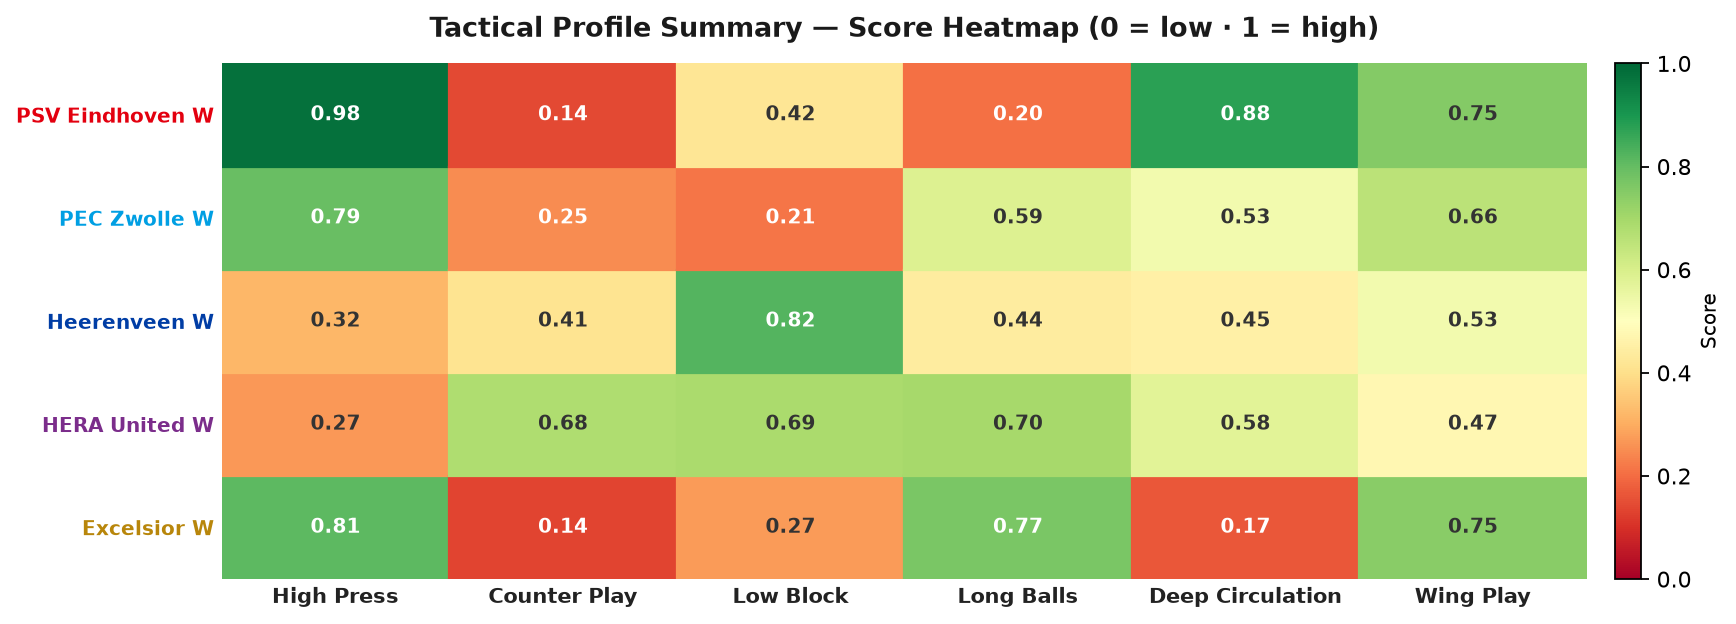
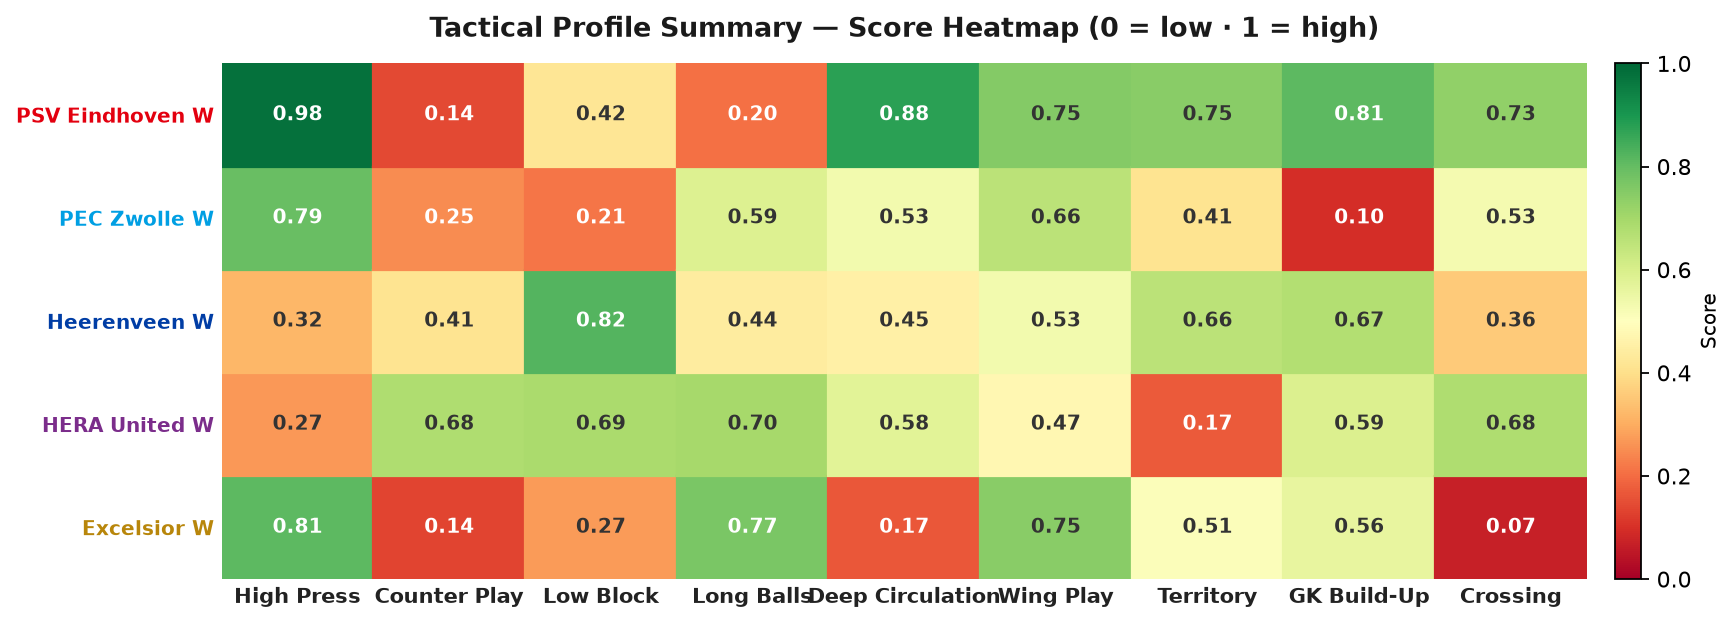
Add Territory, GK Build-Up, and Crossing metrics (9 total)
Territory = average normalised x of on-ball events (how high the team plays).
GK Build-Up = share of GK passes that are short/ground vs. punting long.
Crossing = crosses as a proportion of total passes.

Claude-Session: https://claude.ai/code/session_013bpMzJGpaUFdxat6XvigsB

diff --git a/coach_profiling.py b/coach_profiling.py
@@ -10,6 +10,9 @@ Metrics
   Long Balls        – directness from defensive areas (high/long passes from own half)
   Deep Circulation  – proportion of passes in own defensive third that stay short / go back
   Wing Play         – concentration of passing + carrying actions in wide channels
+  Territory         – average normalised x-position of on-ball events (how high the team plays)
+  GK Build-Up       – proportion of GK passes that are short/ground (vs. going long)
+  Crossing          – proportion of passes flagged as crosses
 """
 
 import json, math
@@ -48,6 +51,9 @@ LABELS = [
     "Long Balls",
     "Deep Circulation",
     "Wing Play",
+    "Territory",
+    "GK Build-Up",
+    "Crossing",
 ]
 
 METRIC_DESC = {
@@ -57,6 +63,9 @@ METRIC_DESC = {
     "Long Balls":        "High/long passes\nfrom defensive areas",
     "Deep Circulation":  "Short/back passes\nin defensive third",
     "Wing Play":         "Passes & carries\nin wide channels",
+    "Territory":         "Average pitch position\nof on-ball actions",
+    "GK Build-Up":       "GK short/ground passes\nvs. total GK passes",
+    "Crossing":          "Crosses as share\nof total passes",
 }
 
 # ── coordinate helpers ────────────────────────────────────────────────────────
@@ -170,13 +179,39 @@ def raw_metrics(events, team_name):
     wide_actions  = pass_wide   + carry_wide
     wing_pct = wide_actions / total_actions if total_actions else 0
 
+    # 7 · TERRITORY ─────────────────────────────────────────────────────────
+    # Mean normalised x of all on-ball events (passes, carries, shots, dribbles)
+    ON_BALL = {"Pass", "Carry", "Shot", "Dribble", "Ball Receipt*"}
+    x_vals = [nx(e["location"][0], e.get("attacking_direction", "left_to_right"))
+               for e in team_ev
+               if e["type"]["name"] in ON_BALL and e.get("location")]
+    territory_avg_x = sum(x_vals) / len(x_vals) if x_vals else 60.0
+
+    # 8 · GK BUILD-UP ────────────────────────────────────────────────────────
+    # Proportion of GK passes that are short/ground (low length or ground height)
+    gk_passes = [e for e in team_ev
+                 if e["type"]["name"] == "Pass"
+                 and e.get("position", {}).get("name") == "Goalkeeper"]
+    gk_short  = [p for p in gk_passes
+                 if p.get("pass", {}).get("height", {}).get("name") in ("Ground Pass", "Low Pass")
+                 and p.get("pass", {}).get("length", 99) < 35]
+    gk_buildup_ratio = len(gk_short) / len(gk_passes) if gk_passes else 0.0
+
+    # 9 · CROSSING ───────────────────────────────────────────────────────────
+    passes_all = [e for e in team_ev if e["type"]["name"] == "Pass"]
+    crosses    = [p for p in passes_all if p.get("pass", {}).get("cross")]
+    cross_pct  = len(crosses) / len(passes_all) if passes_all else 0.0
+
     return dict(
-        ppda          = ppda,
-        counter_pct   = counter_pct,
-        low_block_pct = low_block_pct,
-        long_pct      = long_pct,
-        deep_circ_pct = deep_circ_pct,
-        wing_pct      = wing_pct,
+        ppda             = ppda,
+        counter_pct      = counter_pct,
+        low_block_pct    = low_block_pct,
+        long_pct         = long_pct,
+        deep_circ_pct    = deep_circ_pct,
+        wing_pct         = wing_pct,
+        territory_avg_x  = territory_avg_x,
+        gk_buildup_ratio = gk_buildup_ratio,
+        cross_pct        = cross_pct,
     )
 
 
@@ -200,6 +235,15 @@ def scale_metrics(raw):
     # Wing Play: 40 % → 0.0,  65 % → 1.0
     wing = max(0.0, min(1.0, (raw["wing_pct"] - 0.40) / 0.25))
 
+    # Territory: avg x  45 → 0.0,  65 → 1.0
+    territory = max(0.0, min(1.0, (raw["territory_avg_x"] - 45.0) / 20.0))
+
+    # GK Build-Up: 20 % → 0.0,  80 % → 1.0
+    gk_buildup = max(0.0, min(1.0, (raw["gk_buildup_ratio"] - 0.20) / 0.60))
+
+    # Crossing: 0 % → 0.0,  5 % → 1.0
+    crossing = min(1.0, raw["cross_pct"] / 0.05)
+
     return {
         "High Press":        round(high_press, 3),
         "Counter Play":      round(counter,    3),
@@ -207,6 +251,9 @@ def scale_metrics(raw):
         "Long Balls":        round(long_balls, 3),
         "Deep Circulation":  round(deep_circ,  3),
         "Wing Play":         round(wing,       3),
+        "Territory":         round(territory,  3),
+        "GK Build-Up":       round(gk_buildup, 3),
+        "Crossing":          round(crossing,   3),
     }
 
 
@@ -235,7 +282,8 @@ for t in teams_sorted:
     r = team_raw_avg[t]
     print(f"  {t}: PPDA={r['ppda']:.2f}  counter={r['counter_pct']:.2%}  "
           f"lowblock={r['low_block_pct']:.2%}  long={r['long_pct']:.2%}  "
-          f"deepcirc={r['deep_circ_pct']:.2%}  wing={r['wing_pct']:.2%}")
+          f"deepcirc={r['deep_circ_pct']:.2%}  wing={r['wing_pct']:.2%}  "
+          f"territory={r['territory_avg_x']:.2f}  gk={r['gk_buildup_ratio']:.2%}  cross={r['cross_pct']:.2%}")
 
 print("\nScaled metrics:")
 for t in teams_sorted:
@@ -322,7 +370,7 @@ plt.close()
 print(f"Saved {out2.name}")
 
 # ── FIGURE 3 — Bar chart breakdown per metric ─────────────────────────────────
-fig3, axes = plt.subplots(2, 3, figsize=(15, 8), facecolor="white")
+fig3, axes = plt.subplots(3, 3, figsize=(15, 12), facecolor="white")
 fig3.suptitle("Metric-by-Metric Breakdown", fontsize=13,
               fontweight="bold", color="#1a1a1a", y=1.01)
 
@@ -335,7 +383,7 @@ short_names = {
 }
 
 for idx, lbl in enumerate(LABELS):
-    ax = axes[idx // 3][idx % 3]
+    ax = axes[idx // 3, idx % 3]
     vals   = [team_metrics[t][lbl] for t in teams_sorted]
     colors = [TEAM_COLORS.get(t, "#555") for t in teams_sorted]
     xlabels = [short_names.get(t, t) for t in teams_sorted]
